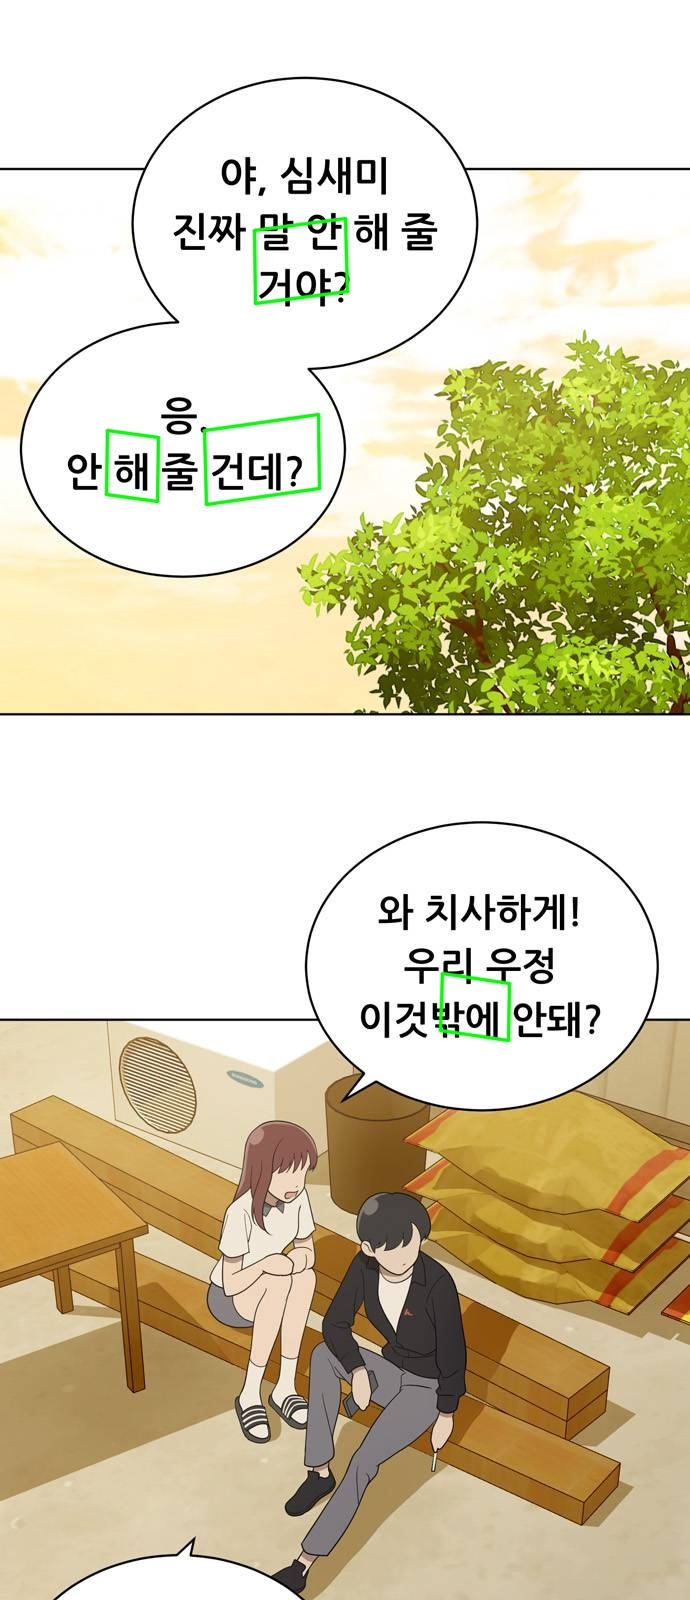
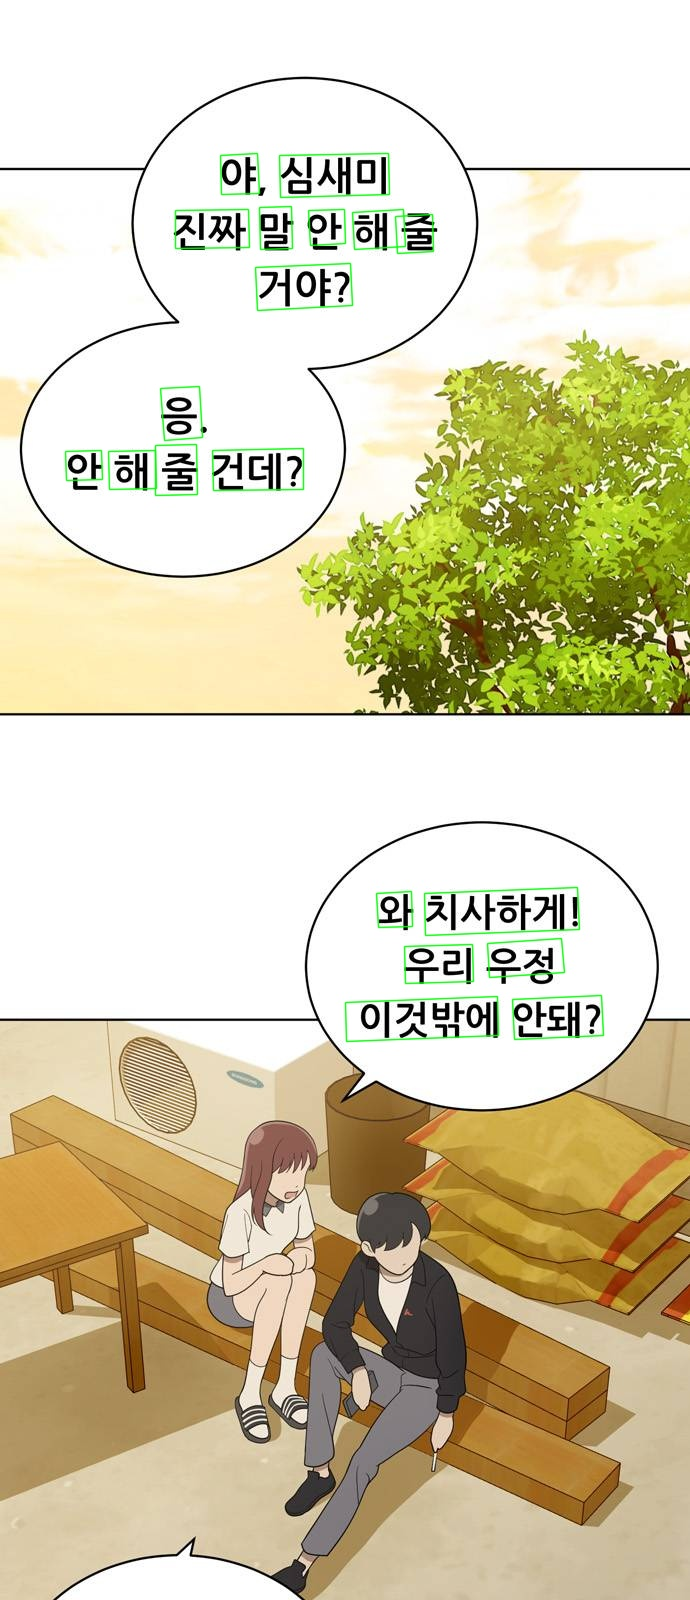
almost there in terms of text detection

diff --git a/script.py b/script.py
@@ -135,12 +135,15 @@ def main():
 
 
     confThreshold = 0.5
-    nmsThreshold = 0.25
+    nmsThreshold = 0.2
+
+    # put this in loop later lol
 
     net = cv2.dnn.readNetFromTensorflow("frozen_east_text_detection.pb")
     cvImage = cv2.imread(images[0])
-    inputWidth = 320
-    inputHeight = 320
+    print(ocr_core(images[0]))
+    inputWidth = round(cvImage.shape[1]/32) * 32
+    inputHeight = round(cvImage.shape[0]/32) * 32
     cvWidth = cvImage.shape[1]/float(inputWidth)
     cvHeight = cvImage.shape[0]/float(inputHeight)
 
@@ -156,20 +159,24 @@ def main():
     [boxes, confidences] = decode(scores, geometry, confThreshold)
 
     indices = cv2.dnn.NMSBoxesRotated(boxes, confidences, confThreshold, nmsThreshold)
+
     for i in indices:
         # get 4 corners of the rotated rect
         vertices = cv2.boxPoints(boxes[i[0]])
+
         # scale the bounding box coordinates based on the respective ratios
+
         for j in range(4):
             vertices[j][0] *= cvWidth
             vertices[j][1] *= cvHeight
         for j in range(4):
             p1 = (int(vertices[j][0]), int(vertices[j][1]))
             p2 = (int(vertices[(j + 1) % 4][0]), int(vertices[(j + 1) % 4][1]))
-            cv2.line(cvImage, p1, p2, (0, 255, 0), 2, cv2.LINE_AA)
+            cv2.line(cvImage, p1, p2, (0, 255, 0), 1, cv2.LINE_AA)
             # cv.putText(frame, "{:.3f}".format(confidences[i[0]]), (vertices[0][0], vertices[0][1]), cv.FONT_HERSHEY_SIMPLEX, 0.5, (255, 0, 0), 1, cv.LINE_AA)
 
     cv2.imwrite(scriptPath + "/cvoutput/" + "test.jpg", cvImage)
+
 
     """
     for image in images:
